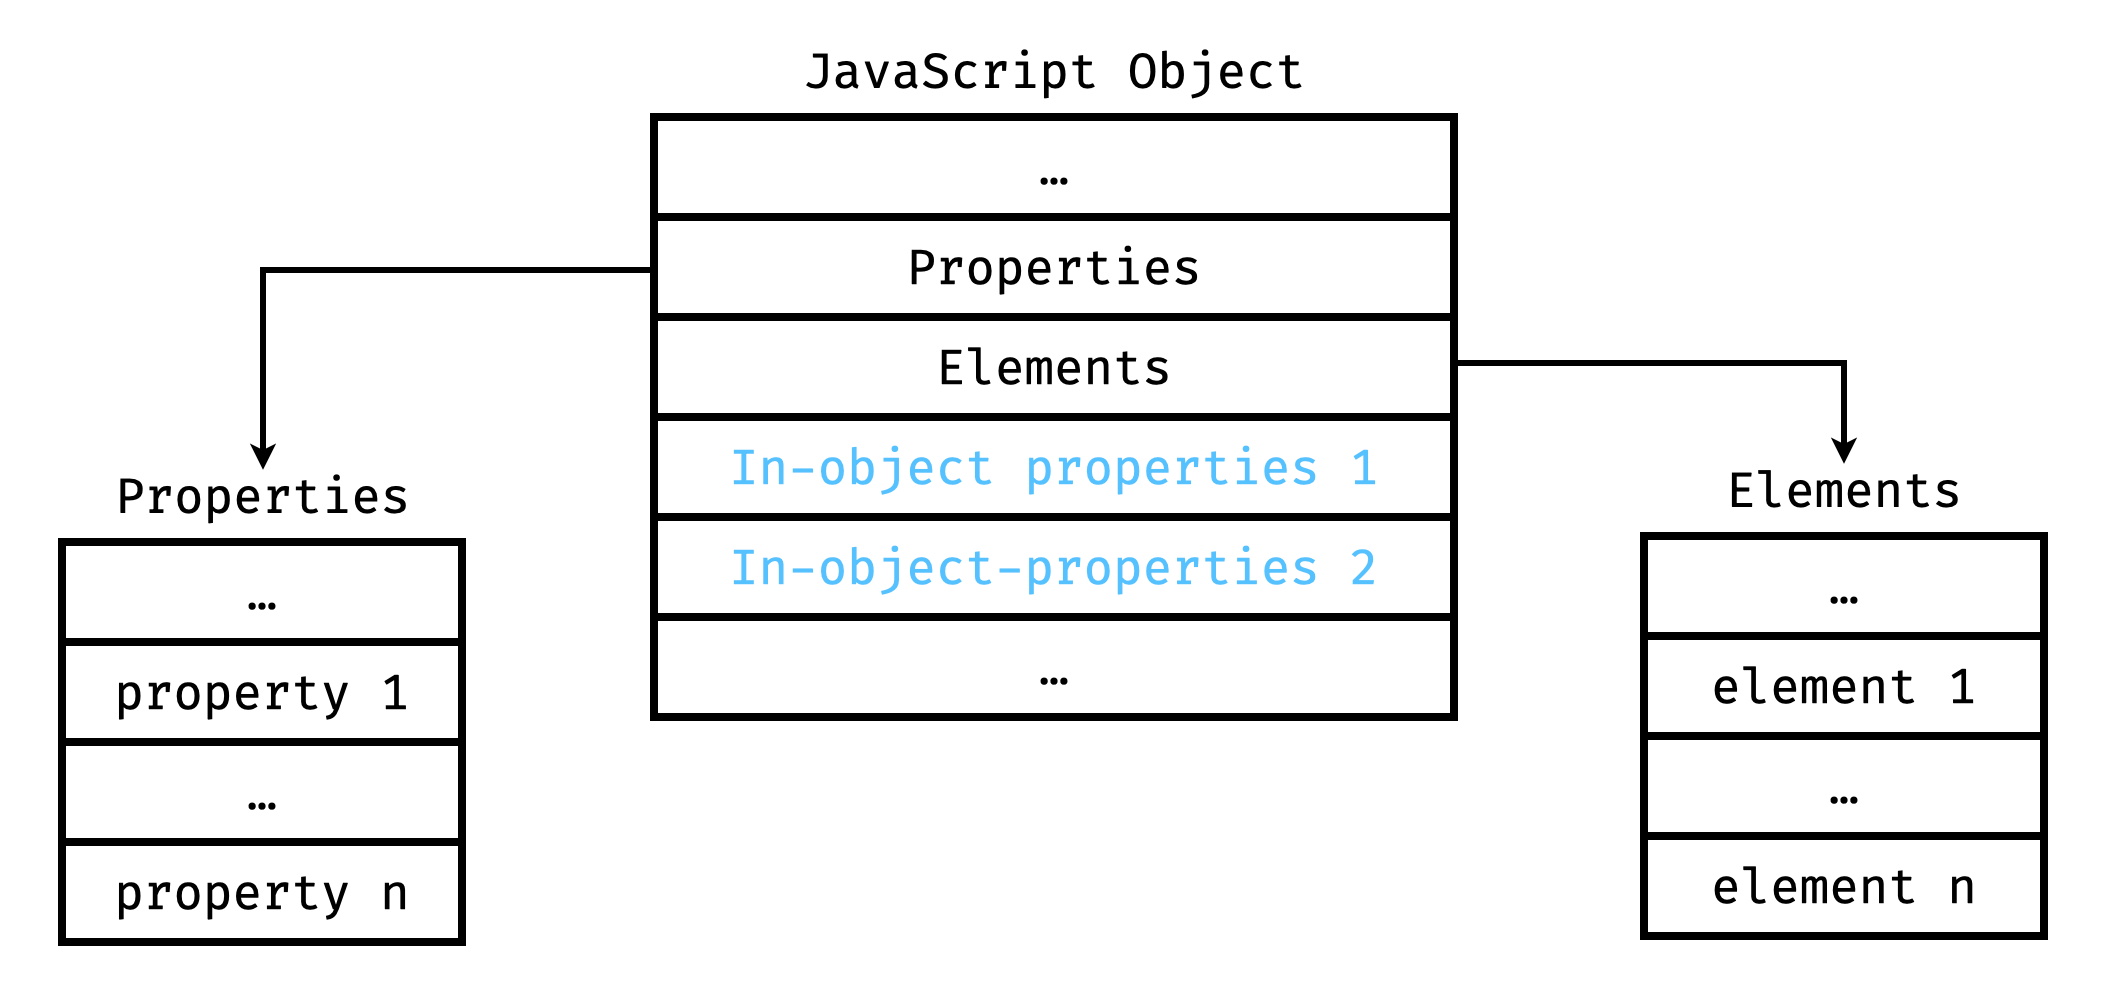
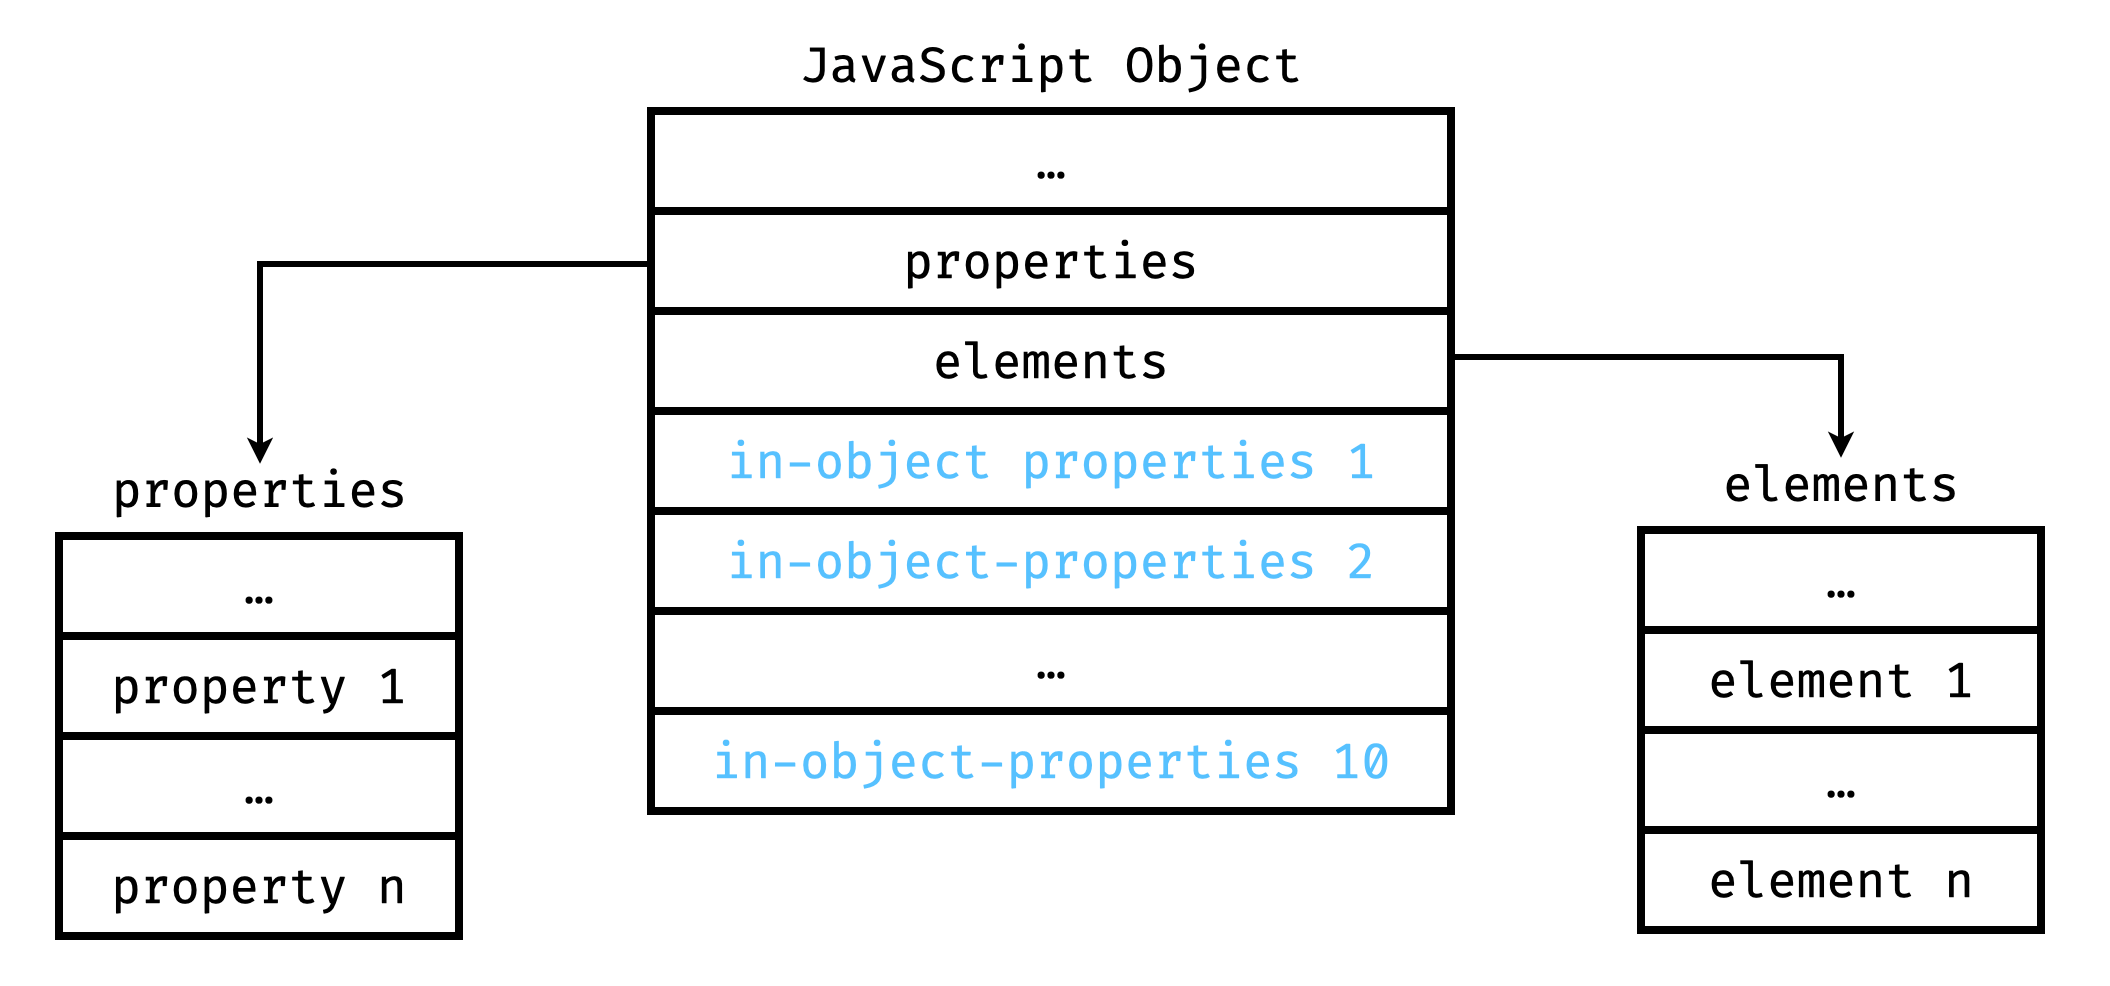
update v8-object.md

diff --git a/markdown/javascript/v8-object.md b/markdown/javascript/v8-object.md
@@ -14,7 +14,21 @@ JavaScript 中的对象和面向对象语言中的对象是不一样的，在 Ja
 
 > 在 JavaScript 中有 2 个特别的内建对象，分别是 `Map` 和 `WeakMap`，它们都同样是字典类型的数据结构，其中，`Map` 可以使用任意数据类型来作为键，`WeakMap` 则只能使用对象来作为键。
 
+另外，如果我们遍历对象的属性，那么就会先按照索引值的升序顺序来输出对象的数组索引属性，然后再按照属性创建的先后顺序来输出其他属性，这是根据 ECMAScript 规范的要求来设计的。
 
+```js
+const obj = {};
+
+obj[ "2" ] = "";
+obj[ "1" ] = "";
+obj[ "0" ] = "";
+obj[ "a" ] = "";
+obj[ "b" ] = "";
+obj[ "c" ] = "";
+
+for ( let key in obj ) console.log( key );
+// 0 1 2 a b c
+```
 
 
 
@@ -43,35 +57,43 @@ internal information...           // output
 
 ## 实现
 
-JavaScript 对象拥有两类属性，一类是命名属性（Named properties），一类是数组索引属性（Array-indexed properties）。不过 V8 官方将命名属性称为 Properties，将数组索引属性称为 Elements，本文会沿用 V8 官方的叫法，因为这种叫法更加简洁。
+JavaScript 对象拥有两类属性，一类是命名属性（named properties），一类是数组索引属性（array-indexed properties）。不过 V8 官方将命名属性简称为 properties，将数组索引属性简称为 elements，本文会沿用 V8 官方的叫法，因为这种叫法更加简洁。
 
-V8 主要是用 C++ 来编写的，它会创建一个定长数组来存储 JavaScript 对象，不过 V8 不会将对象的 Properties 和 Elements 直接存储在这个对象上，而是将它们分别存储在另外两个独立的数据结构中，然后令该数组的第二个元素指向存储 Properties 的数据结构，令该数组的第三个元素指向存储 Elements 的数据结构。
+V8 引擎是使用 C++ 来编写的，同时还使用到了 JavaScript 和汇编，不过在 C++ 中，并没有一种像 JavaScript 对象一样的 API，所以 V8 团队需要亲自实现 JavaScript 对象。
+
+具体来说，V8 引擎会创建一个定长数组来存储 JavaScript 对象，为方便起见，本文会将该数组称为 JavaScript 对象数组。不过 V8 引擎并不会直接将 properties 和 elements 直接存储在这个 JavaScript 对象数组上，而是将它们分别存储在另外两个独立的数据结构中，然后令 JavaScript 对象数组的第二个元素指向存储 properties 的数据结构，令 JavaScript 对象数组的第三个元素指向存储 elements 的数据结构，正如下图所示。
 
 ![Properties和Elements](/static/image/markdown/javascript/properties-and-elements.png)
 
-其实，V8 也会将一小部分的 Properties 存储在存储 JavaScript 对象的数组上，下文揭示了更多的相关细节。
+下文将会详细描述 V8 引擎是如何存储 properties 和 elements 的。
 
-### Properties
+### properties
 
-Properties 的准确名称是 Named properties，翻译为命名属性，是指使用除了正整数字符串之外的其他字符串来作为键的属性，比如 `"a"`、`"b"` 等，另外，使用 `Symbol` 类型的值来作为键的属性也 Properties。
+properties 的准确名称是 named properties，译为命名属性，是指使用除了正整数字符串之外的其他字符串来作为键的属性，比如 `{ a: 1 }` 等，另外，使用 `Symbol` 类型的值来作为键的属性也属于 properties。
 
-V8 会使用一个独立的数组或字典来存储 Properties。另外，存储 JavaScript 对象的数组本身也能存储一部分的 Properties，这些 Properties 被称为 In-object properties。
+#### in-object properties
 
-#### In-object properties
+首先，V8 引擎在创建 JavaScript 对象数组的时候，就会在该数组上预留一些空间来存储 properties，而这些被直接存储在 JavaScript 对象数组上的 properties 就被称为 in-object properties。默认情况下，JavaScript 对象数组可以存储 10 个 in-object properties，而超出的 properties 将会被存储在另一个独立的数据结构中，而这个数据结构的内存地址将会被存储在 JavaScript 对象数组的第二个元素上。V8 将这些存储在独立的数据结构中的 properties 称为 normal properties。
 
-V8 使用数组来存储 JavaScript 对象，这个数组在创建之初就会预留一定的空间来存储 Properties，这些被直接存储在该数组上的 Properties 就被称为 In-object properties。不过，In-object properties 的数量是很有限的，如果我们想要存储的 Properties 的数量超出了 In-object properties 的容限，那么超出的部分就只能存储到另一个独立的数据结构中去，我们将超出的部分称为 Normal properties。显然，相比于 Elements 和 Normal properties，In-object properties 的访问速度要更快的。
+显然，in-object properties 的访问速度要比 normal properties 和 elements 的访问速度更快，因为 V8 引擎可以直接在 JavaScript 对象数组上找到 in-object properties。
 
 ![In-object properties](/static/image/markdown/javascript/in-object-properties.png)
 
-如果我们经常使用一些仅仅只有几个命名属性的小型对象，那么这些小型对象的属性访问效率将会很高，因为这些小型对象的命名属性都被 V8 当作 In-object properties 来处理了，这正是 V8 设计 In-object properties 的原因。
+试想一下，如果我们经常使用仅仅只有几个命名属性的小型对象，那么这些小型对象的属性访问效率将会很高，因为这些小型对象的命名属性都被当作 in-object properties 来处理了，这正是 V8 引擎设计 in-object properties 的原因。
 
-TODO 为什么 In-object properties 的数量很少呢？
+#### normal properties
 
-#### Normal properties
+normal properties 是指存储在独立的数据结构中的 properties，即非 in-object properties 的 properties。
 
-存储 JavaScript 对象的数组只能存储有限且少量的 In-object-properties，而超出的部分将会被存储到另一个独立的数据结构中去，这些超出的部分就被称为 Normal properties。
+V8 引擎要么使用线性的数据结构来存储 normal properties，要么使用非线性的数据结构来存储 normal properties。其中，线性数据结构是指 `FixedArray`，这是一个由 V8 引擎自己实现的类似于数组的类，它和数组的区别在于它拥有更多的方法，而非线性数据结构则是指基于散列表的数组。
 
-TODO 从这里开始！
+如果 V8 引擎使用 `FixedArray` 来存储 normal properties，那么 V8 引擎就会将这些 normal properties 称为 fast properties，即快属性。如果 V8 引擎使用散列表来存储 normal properties，那么 V8 引擎就会将这些 normal properties 称为 slow properties，即慢属性。V8 引擎之所以会把 normal properties 分别称呼为快属性或慢属性，是因为线性数据结构中的数据访问速度比非线性数据结构的数据访问速度更快，具体来说，V8 引擎可以通过索引来直接访问到线性数据结构中的数据，但是如果 V8 引擎想要访问字典（基于散列表）中的数据，那么 V8 引擎就需要先通过哈希计算来得到目标数据的地址，然后再根据地址来访问到目标数据。
+
+> 使用散列表来实现字典的大致原理是：通过哈希函数来将字典的键转换为一个唯一的内存地址，然后将相应的值存储在该地址中。
+>
+> 如果需要访问字典的某个属性，那么就可以通过哈希函数来计算出该键所对应的内存地址，然后在该地址中找到相应的值。因为要进行哈希计算，所以字典（基于散列表）的数据访问速度没有数组的数据访问速度快。
+
+normal properties 是键值对格式的数据，
 
 ### Elements
 
